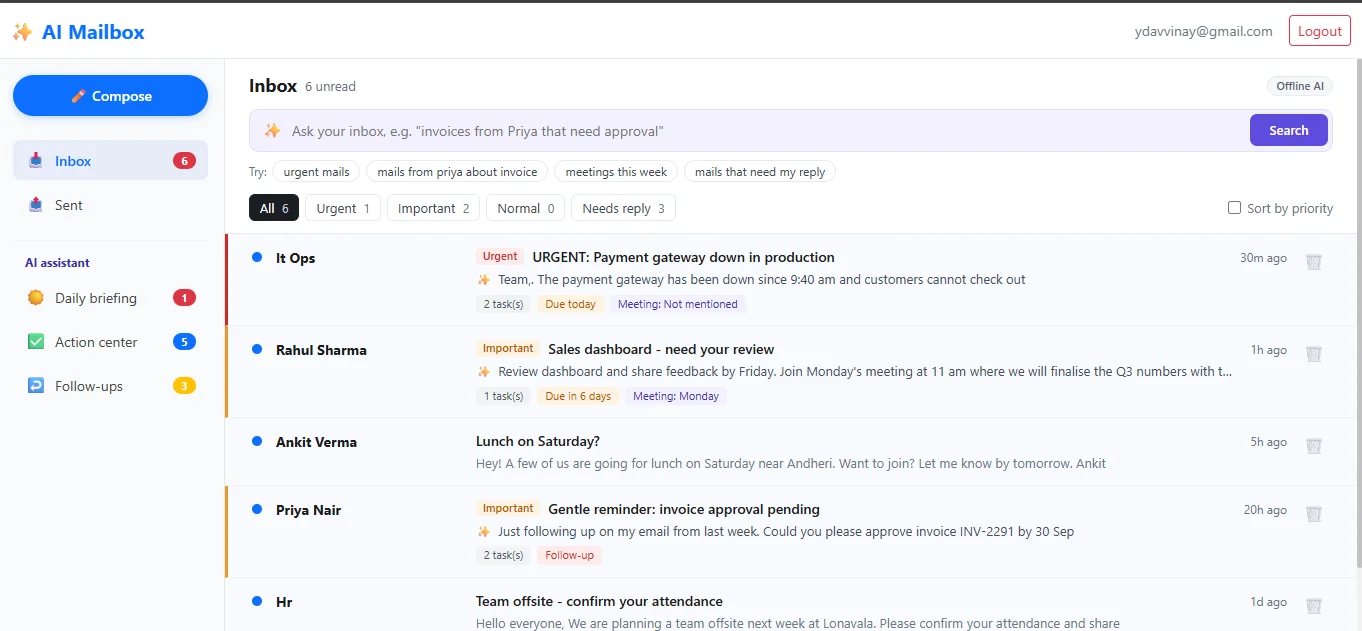
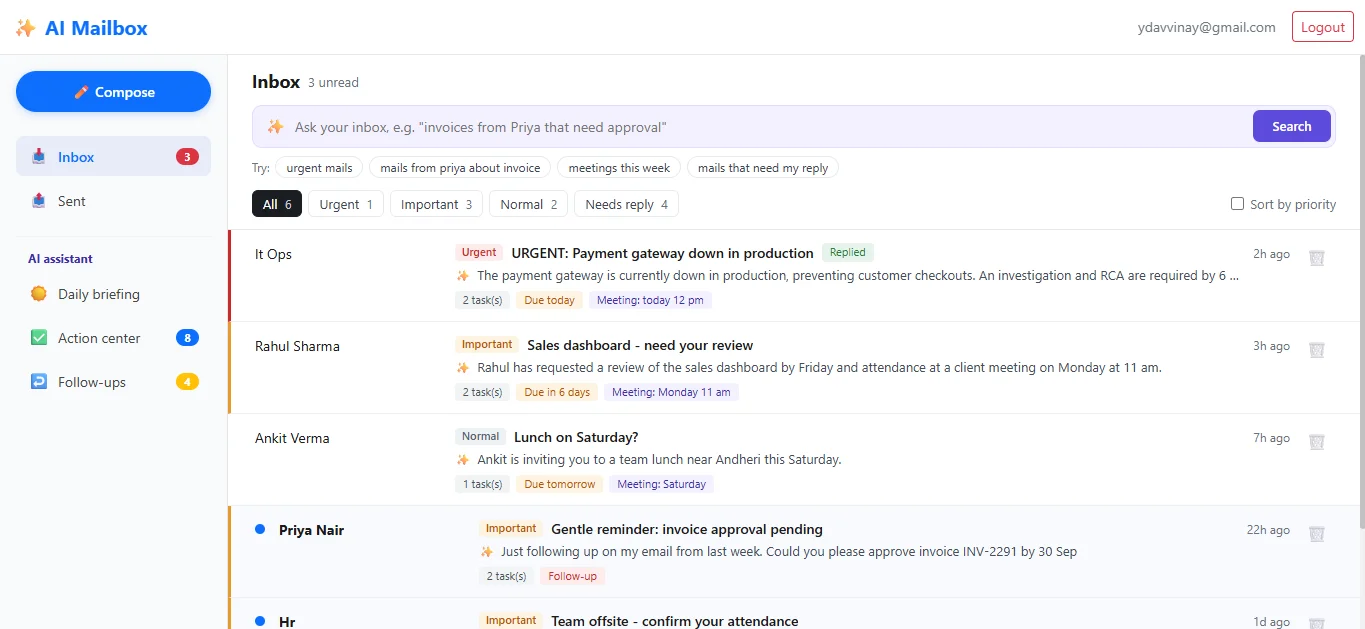
Update screenshots with Gemini AI results

diff --git a/README.md b/README.md
@@ -36,13 +36,13 @@ In this app user can send and receive mails, and AI reads every mail. AI tells t
 
 ## Screenshots
 
-| Read Mail with AI                                   | Daily Briefing                                          |
-| --------------------------------------------------- | ------------------------------------------------------- |
+| Read Mail with AI | Daily Briefing |
+|---|---|
 | ![Read mail](screenshots/ai-mailbox-read-mail.webp) | ![Daily briefing](screenshots/ai-mailbox-briefing.webp) |
 
-| Compose with AI                                 |
-| ----------------------------------------------- |
-| ![Compose](screenshots/ai-mailbox-compose.webp) |
+| Smart Reply with AI |
+|---|
+| ![Smart reply](screenshots/ai-mailbox-reply.webp) |
 
 ## What I Learned
 
